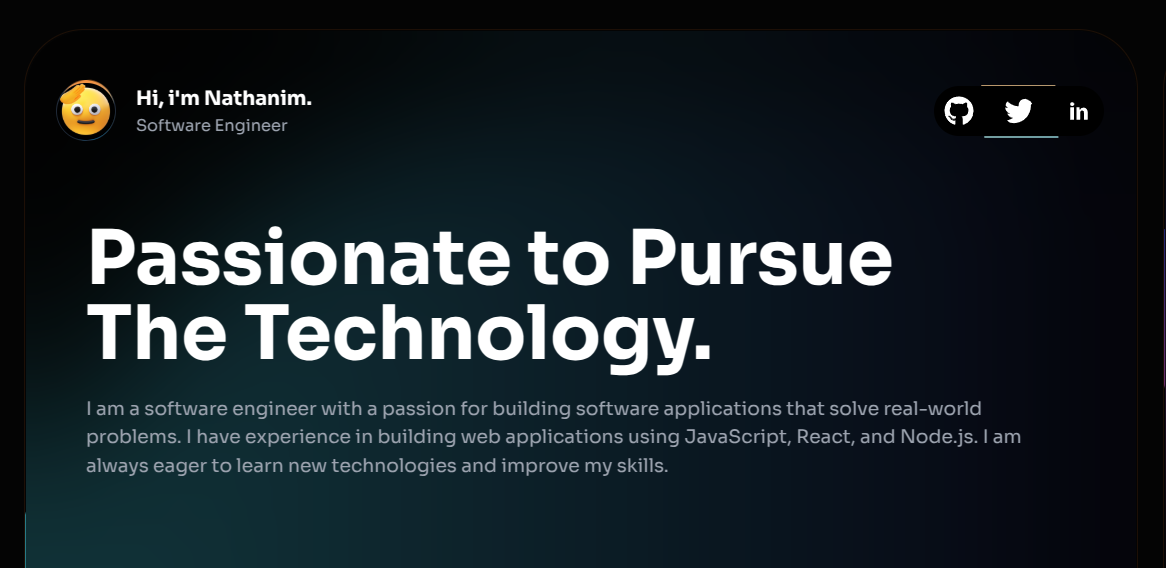
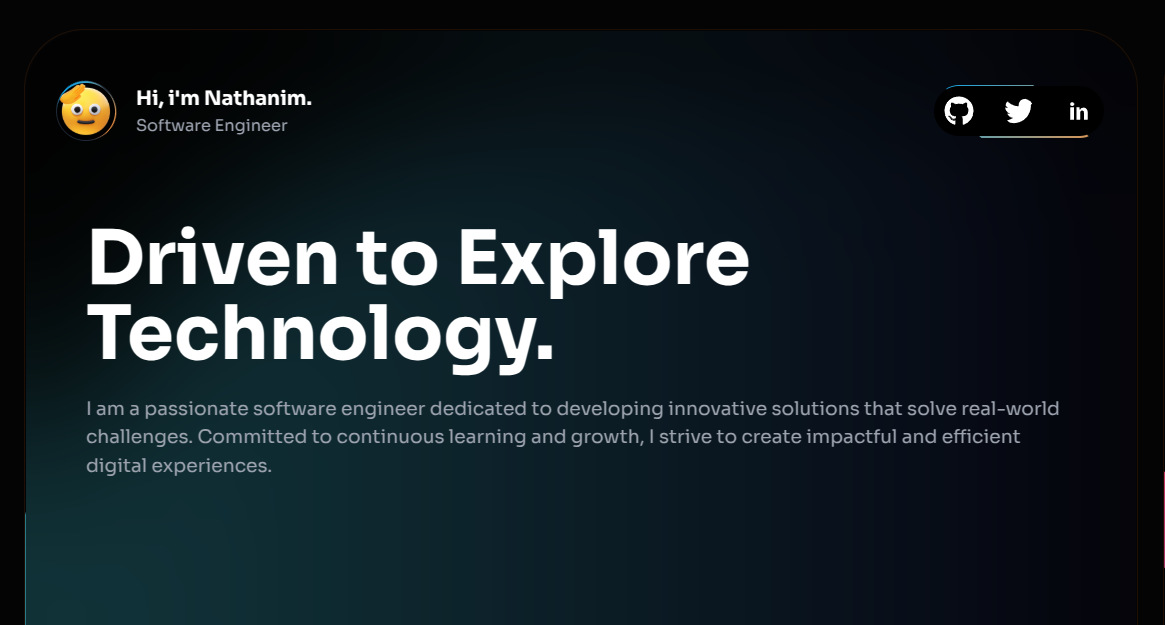
refactor: update text content in Home.jsx for clarity and impact

diff --git a/client/src/pages/Home.jsx b/client/src/pages/Home.jsx
@@ -51,14 +51,11 @@ const Home = () => {
         </div>
         <div className="grid gap-5 p-6">
           <h1 className="text-2xl md:text-3xl lg:text-6xl text-white font-bold">
-            Passionate to Pursue
-            <br /> The Technology.
+          Driven to Explore
+            <br />  Technology.
           </h1>
           <p className="text-gray-400 text-[13px] md:text-[15px]">
-            I am a software engineer with a passion for building software
-            applications that solve real-world problems. I have experience in
-            building web applications using JavaScript, React, and Node.js. I am
-            always eager to learn new technologies and improve my skills.
+          I am a passionate software engineer dedicated to developing innovative solutions that solve real-world challenges. Committed to continuous learning and growth, I strive to create impactful and efficient digital experiences.
           </p>
         </div>
       </div>
